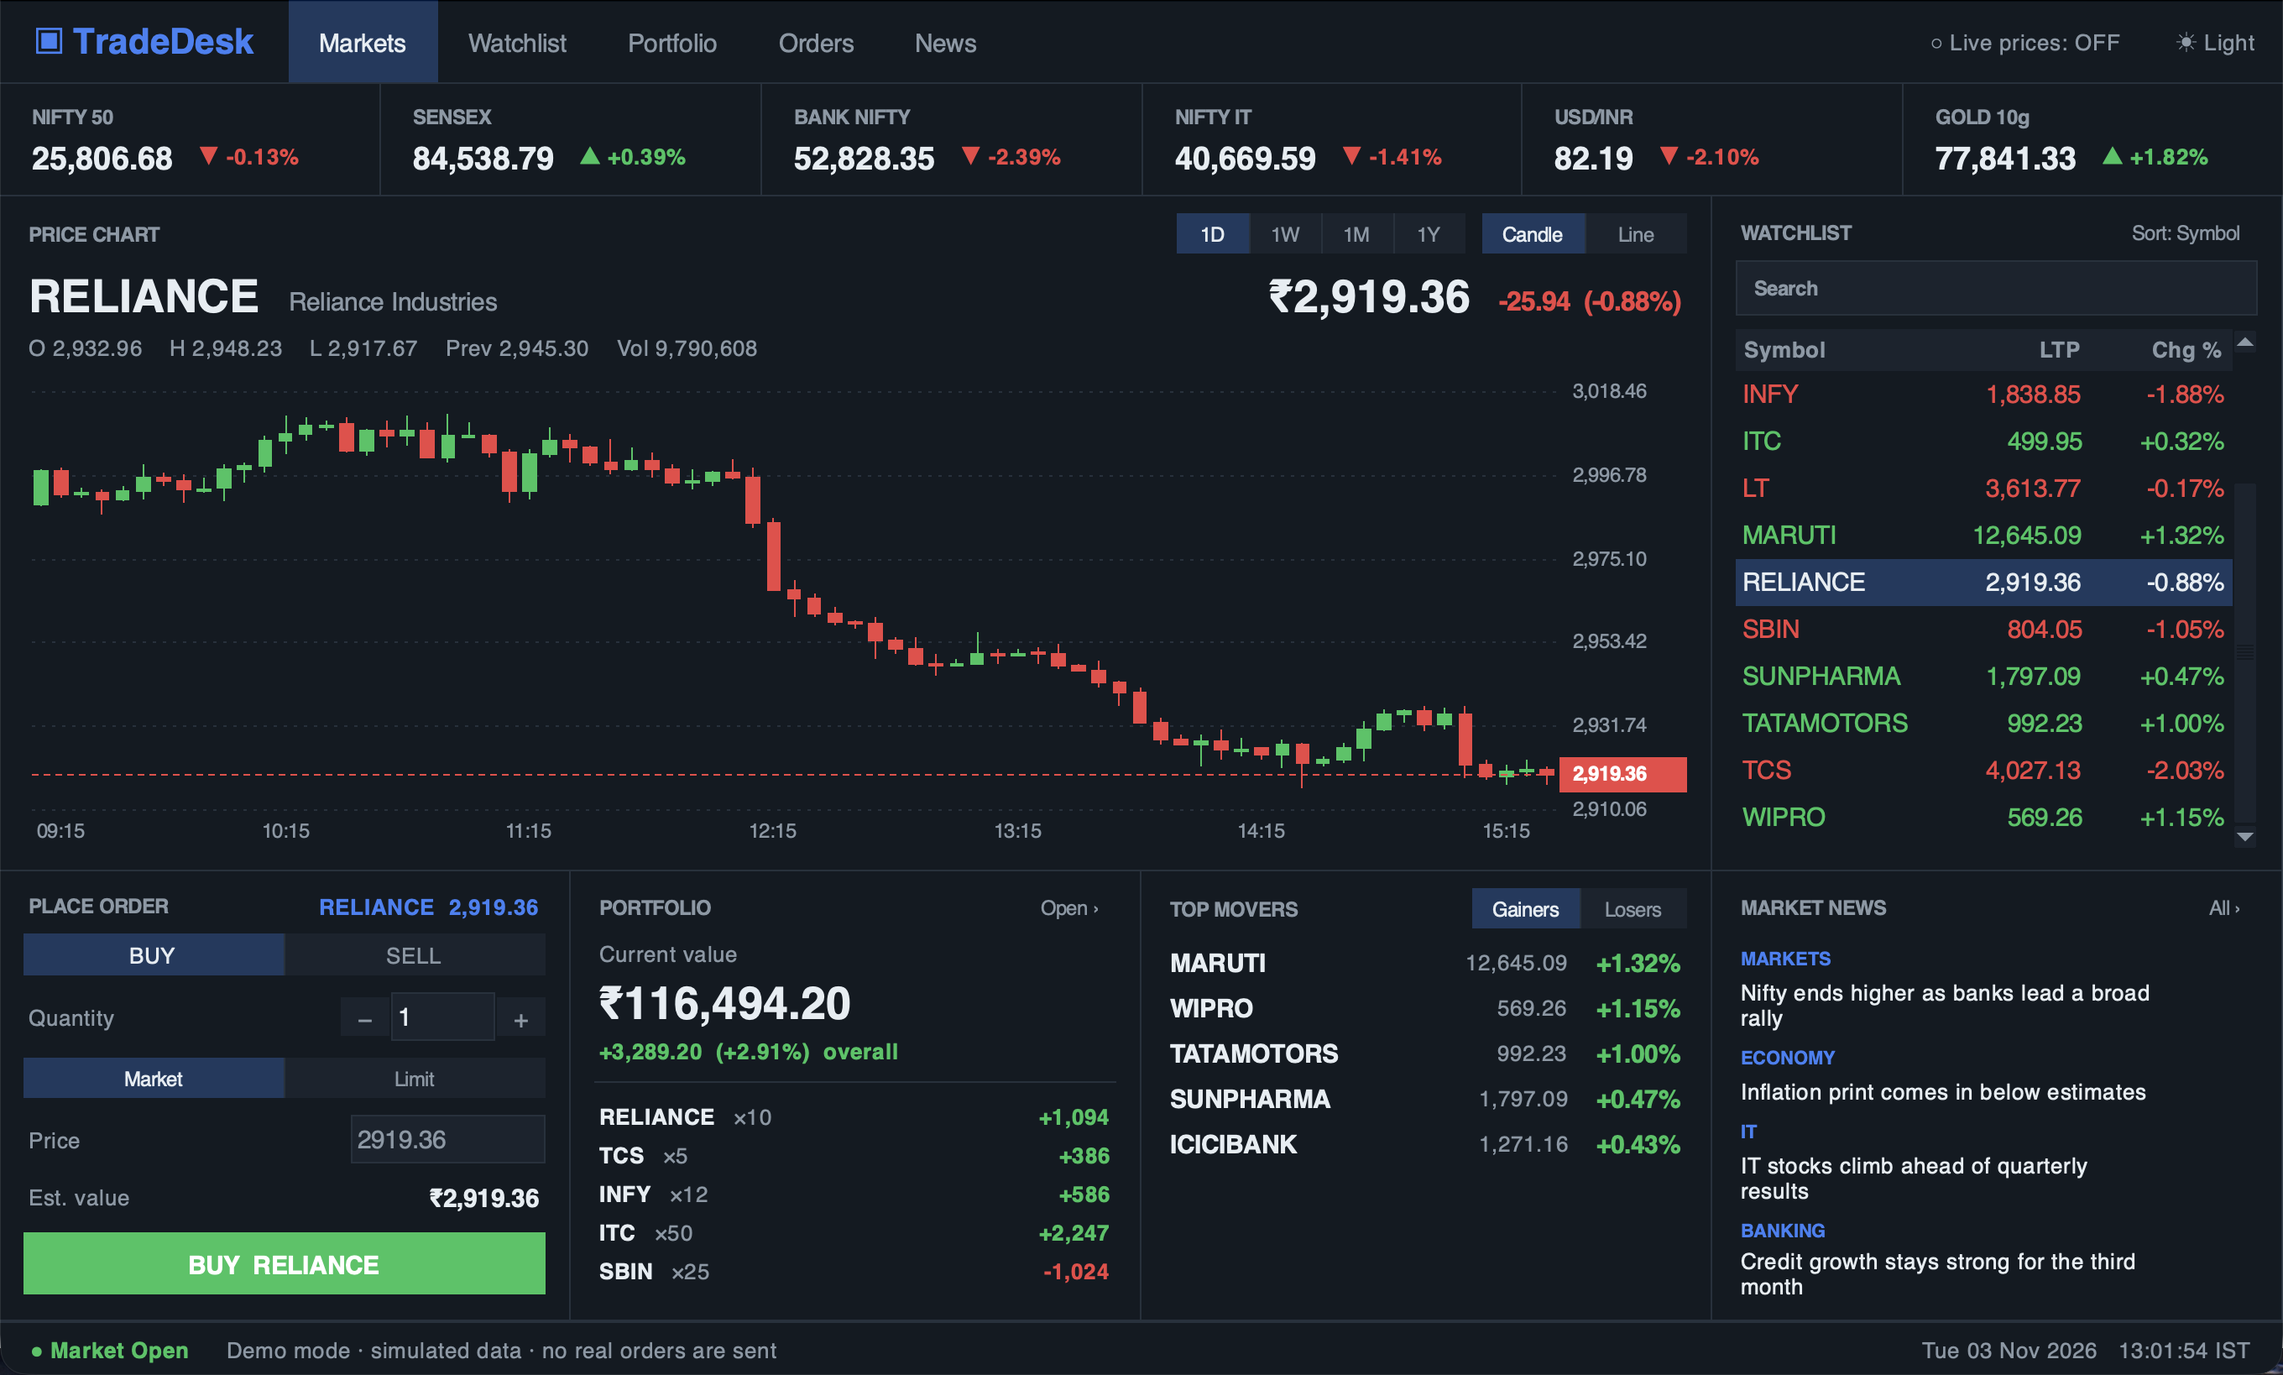
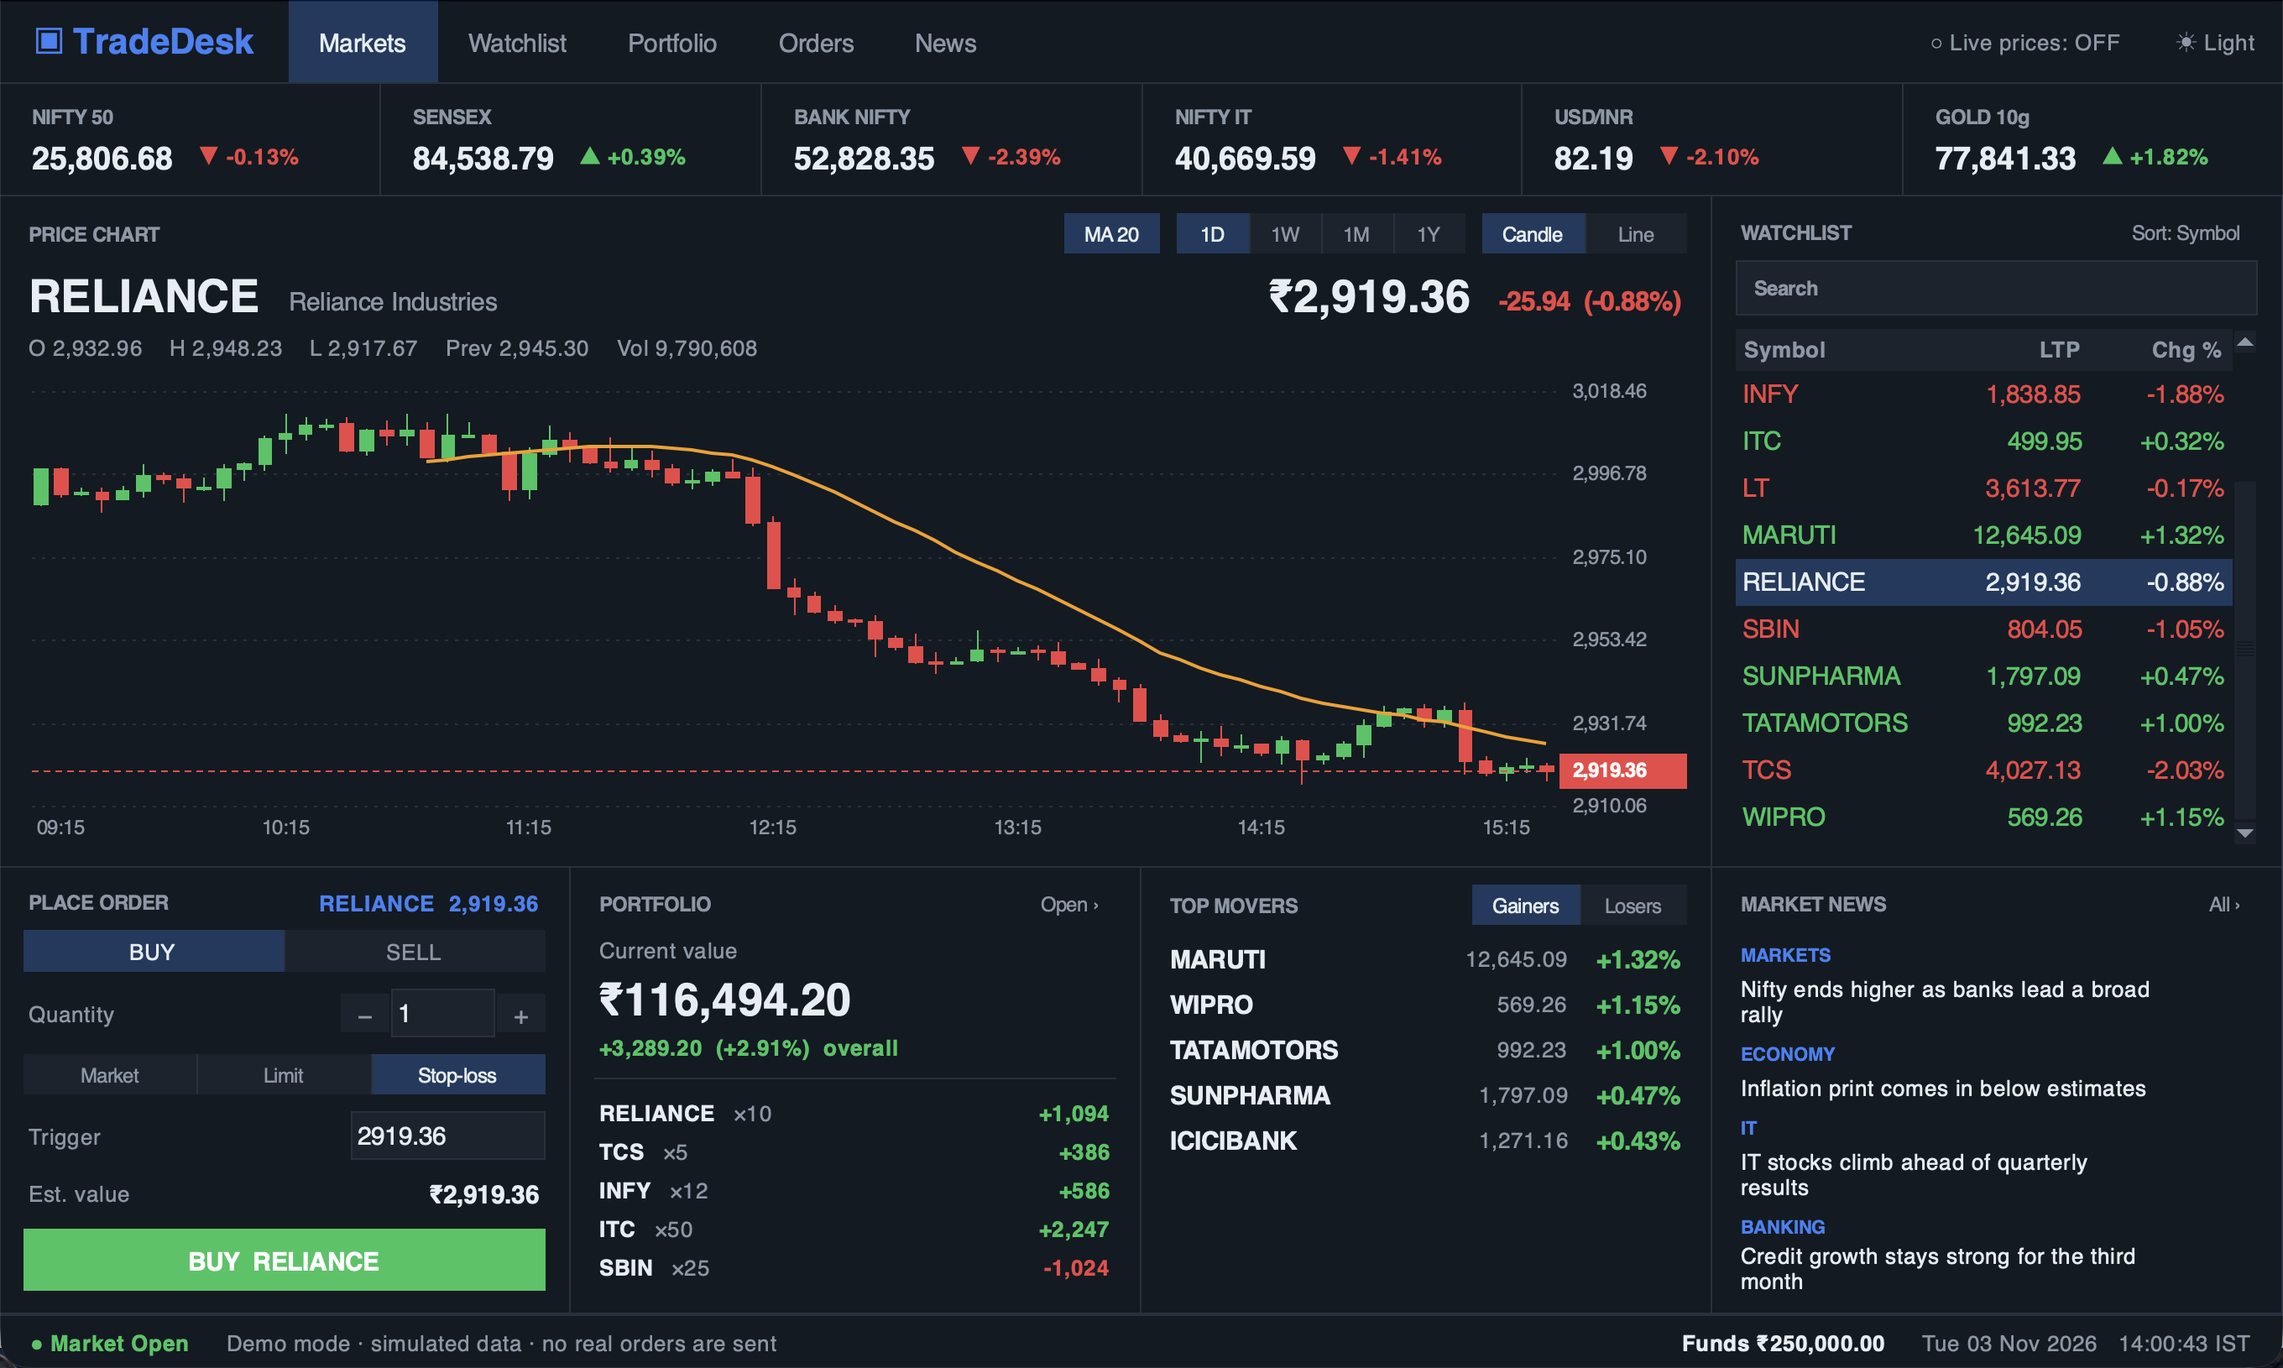
Add stop-loss orders, MA 20, market depth, price alerts and funds
Update the README screenshot and diagram to match.

diff --git a/tradedesk.py b/tradedesk.py
@@ -137,6 +137,9 @@ class MarketData:
             dict(time=(now - timedelta(minutes=18)).strftime("%H:%M:%S"), sym="WIPRO", side="BUY",
                  qty=20, kind="Limit", price=550.00, status="Open"),
         ]
+        self.cash = 250000.0
+        self.alerts = []
+        self.events = []
         self._candles = {}
 
     def candles(self, sym, tf):
@@ -163,6 +166,45 @@ class MarketData:
         for (sym, _), data in self._candles.items():
             last, p = data[-1], self.stocks[sym].price
             last[3], last[1], last[2] = p, max(last[1], p), min(last[2], p)
+        self._fill_open_orders()
+        self._check_alerts()
+
+    def _fill_open_orders(self):
+        """Open limit and stop-loss orders execute once the price reaches them."""
+        for o in filter(lambda o: o["status"] == "Open", self.orders):
+            price, buy = self.stocks[o["sym"]].price, o["side"] == "BUY"
+            if o["kind"] == "Limit":
+                hit = price <= o["price"] if buy else price >= o["price"]
+            else:
+                hit = price >= o["price"] if buy else price <= o["price"]
+            if not hit:
+                continue
+            short = o["qty"] > self.holdings.get(o["sym"], [0, 0])[0]
+            if (buy and o["qty"] * o["price"] > self.cash) or (not buy and short):
+                o["status"] = "Rejected"
+            else:
+                o["status"] = "Executed"
+                self._settle(o)
+            self.events.append(f"{o['kind']} {o['side']} {o['sym']}: {o['status'].lower()}")
+
+    def add_alert(self, sym, price):
+        self.alerts.append(dict(sym=sym, price=price, above=price > self.stocks[sym].price))
+        self.events.append(f"Alert set: {sym} at {price:,.2f}")
+
+    def _check_alerts(self):
+        for a in list(self.alerts):
+            price = self.stocks[a["sym"]].price
+            if (price >= a["price"]) if a["above"] else (price <= a["price"]):
+                self.alerts.remove(a)
+                self.events.append(f"Alert: {a['sym']} reached {a['price']:,.2f}")
+
+    def depth(self, sym):
+        """Five simulated bid and ask levels: (bid, bid qty, ask, ask qty)."""
+        price = self.stocks[sym].price
+        rng = random.Random(f"{sym}{price}")
+        step = max(0.05, round(price * 0.0002, 2))
+        return [(price - step * i, rng.randint(50, 5000), price + step * i, rng.randint(50, 5000))
+                for i in range(1, 6)]
 
     def filtered(self, query="", sort="Symbol"):
         q = query.strip().lower()
@@ -184,9 +226,14 @@ class MarketData:
 
     def place(self, order):
         self.orders.insert(0, order)
-        if order["status"] != "Executed":
-            return
+        if order["status"] == "Executed":
+            self._settle(order)
+
+    def _settle(self, order):
+        """Move an executed order into holdings and cash."""
         sym = order["sym"]
+        value = order["qty"] * order["price"]
+        self.cash += -value if order["side"] == "BUY" else value
         q, avg = self.holdings.get(sym, [0, 0.0])
         if order["side"] == "BUY":
             new_q = q + order["qty"]
@@ -242,7 +289,7 @@ class TradeDesk:
         self.data = MarketData()
         self.theme, self.tab, self.symbol = "dark", "Markets", "RELIANCE"
         self.tf, self.chart_type, self.sort_key = "1D", "Candle", "Symbol"
-        self.show_gainers, self.live = True, False
+        self.show_gainers, self.live, self.show_ma = True, False, False
         self.order_state = dict(side="BUY", kind="Market", qty="1")
         root.title("TradeDesk")
         root.geometry("1360x860")
@@ -345,6 +392,15 @@ class TradeDesk:
                  bg=c["panel"], fg=c["muted"], font=(FONT, 10)).pack(side="left")
         self.clock_lbl = tk.Label(bar, bg=c["panel"], fg=c["muted"], font=(FONT, 10), padx=16)
         self.clock_lbl.pack(side="right")
+        self.funds_lbl = tk.Label(bar, bg=c["panel"], fg=c["text"], font=(FONT, 10, "bold"))
+        self.funds_lbl.pack(side="right")
+        self.notice_lbl = tk.Label(bar, bg=c["panel"], fg=c["accent"], font=(FONT, 10, "bold"), padx=16)
+        self.notice_lbl.pack(side="left")
+        self.refresh_status()
+
+    def refresh_status(self):
+        self.funds_lbl.config(text=f"Funds {inr(self.data.cash)}")
+        self.notice_lbl.config(text=self.data.events[-1] if self.data.events else "")
 
     # ---------- timers (event-driven)
     def _clock(self):
@@ -364,6 +420,7 @@ class TradeDesk:
 
     def refresh(self):
         self.refresh_ticker()
+        self.refresh_status()
         for fn in self.refreshers:
             fn()
 
@@ -513,6 +570,15 @@ class TradeDesk:
         head, body = self.tile(page, "Price chart", r, col, colspan=colspan)
         self.segmented(head, ["Candle", "Line"], self.chart_type, self.set_chart_type).pack(side="right")
         self.segmented(head, list(TIMEFRAMES), self.tf, self.set_tf).pack(side="right", padx=(0, 10))
+        ma_btn = FlatButton(head, self, "MA 20", active=self.show_ma, size=9, padx=10, pady=3, base="panel2")
+
+        def toggle_ma():
+            self.show_ma = not self.show_ma
+            ma_btn.set_active(self.show_ma)
+            self.draw_chart()
+
+        ma_btn.command = toggle_ma
+        ma_btn.pack(side="right", padx=(0, 10))
 
         info = tk.Frame(body, bg=c["panel"])
         info.pack(fill="x")
@@ -614,6 +680,13 @@ class TradeDesk:
                 pts += [left + step * i + step / 2, y(candle[3])]
             cv.create_line(*pts, fill=c["accent"], width=2, smooth=False)
 
+        if self.show_ma and n >= 20:
+            closes = [x[3] for x in data]
+            pts = []
+            for i in range(19, n):
+                pts += [left + step * i + step / 2, y(sum(closes[i - 19:i + 1]) / 20)]
+            cv.create_line(*pts, fill="#f59e0b", width=2)
+
         last = data[-1][3]
         col = c["up"] if last >= data[0][0] else c["down"]
         cv.create_line(left, y(last), left + pw, y(last), fill=col, dash=(4, 3))
@@ -659,7 +732,7 @@ class TradeDesk:
         body.columnconfigure(1, weight=1)
 
         qty_var = tk.StringVar(value=st["qty"])
-        price_var = tk.StringVar()
+        price_var = tk.StringVar(value=f"{self.data.stocks[self.symbol].price:.2f}")
         place_btn = FlatButton(body, self, "", None, color=c["up"], size=11, pady=8)
 
         def pick_side(side):
@@ -668,7 +741,8 @@ class TradeDesk:
 
         def pick_kind(kind):
             st["kind"] = kind
-            if kind == "Limit":
+            price_lbl.config(text="Trigger" if kind == "Stop-loss" else "Price")
+            if kind != "Market":
                 price_var.set(f"{self.data.stocks[self.symbol].price:.2f}")
             update()
 
@@ -691,10 +765,11 @@ class TradeDesk:
         FlatButton(qrow, self, "+", lambda: bump(1), size=11, padx=8, pady=1,
                    base="panel2").pack(side="left")
 
-        self.segmented(body, ["Market", "Limit"], st["kind"], pick_kind).grid(
+        self.segmented(body, ["Market", "Limit", "Stop-loss"], st["kind"], pick_kind).grid(
             row=2, column=0, columnspan=2, sticky="ew", pady=(10, 0))
 
-        self.label(body, "Price", fg="muted", size=10).grid(row=3, column=0, sticky="w", pady=(10, 0))
+        price_lbl = self.label(body, "Trigger" if st["kind"] == "Stop-loss" else "Price", fg="muted", size=10)
+        price_lbl.grid(row=3, column=0, sticky="w", pady=(10, 0))
         price_entry = self.entry(body, price_var, width=12)
         price_entry.grid(row=3, column=1, sticky="e", pady=(10, 0), ipady=2)
 
@@ -727,7 +802,12 @@ class TradeDesk:
         price_var.trace_add("write", update_total)
         update()
         self.refreshers.append(update)
-        self.sym_listeners.append(update)
+
+        def on_symbol():
+            price_var.set(f"{self.data.stocks[self.symbol].price:.2f}")
+            update()
+
+        self.sym_listeners.append(on_symbol)
 
     def place_order(self, qty_txt, price_txt):
         st, s = self.order_state, self.data.stocks[self.symbol]
@@ -742,6 +822,9 @@ class TradeDesk:
         held = self.data.holdings.get(s.sym, [0, 0])[0]
         if st["side"] == "SELL" and qty > held:
             messagebox.showerror("Not enough shares", f"You hold {held} shares of {s.sym}.")
+            return
+        if st["side"] == "BUY" and qty * price > self.data.cash:
+            messagebox.showerror("Not enough funds", f"Available funds: {inr(self.data.cash)}.")
             return
         ok = messagebox.askyesno(
             "Confirm order",
@@ -861,29 +944,51 @@ class TradeDesk:
     def quote_tile(self, page, r, col):
         c = self.c
         _, body = self.tile(page, "Quote", r, col)
+        alert_var = tk.StringVar()
+
+        def set_alert():
+            try:
+                price = float(alert_var.get())
+                if price <= 0:
+                    raise ValueError
+            except ValueError:
+                messagebox.showerror("Price alert", "Enter a positive price.")
+                return
+            self.data.add_alert(self.symbol, price)
+            alert_var.set("")
+            self.refresh_status()
+
+        alert_row = tk.Frame(body, bg=c["panel"])
+        alert_row.pack(side="bottom", fill="x", pady=(8, 0))
+        self.label(alert_row, "Price alert", fg="muted", size=10).pack(side="left")
+        FlatButton(alert_row, self, "Set", set_alert, size=10, padx=10, pady=2,
+                   base="panel2").pack(side="right")
+        self.entry(alert_row, alert_var, width=9).pack(side="right", padx=(0, 4), ipady=2)
+        top = tk.Frame(body, bg=c["panel"])
+        top.pack(fill="both", expand=True)
 
         def render():
-            for w in body.winfo_children():
+            for w in top.winfo_children():
                 w.destroy()
             s = self.data.stocks[self.symbol]
-            self.label(body, s.sym, size=20, bold=True).pack(anchor="w")
-            self.label(body, s.name, fg="muted", size=10).pack(anchor="w")
-            self.label(body, inr(s.price), size=24, bold=True).pack(anchor="w", pady=(12, 0))
-            self.label(body, f"{s.change:+,.2f}  ({pct_text(s.pct)})", fg=self.pnl_color(s.change),
+            self.label(top, s.sym, size=20, bold=True).pack(anchor="w")
+            self.label(top, s.name, fg="muted", size=10).pack(anchor="w")
+            self.label(top, inr(s.price), size=24, bold=True).pack(anchor="w", pady=(6, 0))
+            self.label(top, f"{s.change:+,.2f}  ({pct_text(s.pct)})", fg=self.pnl_color(s.change),
                        size=11, bold=True).pack(anchor="w")
-            tk.Frame(body, bg=c["border"], height=1).pack(fill="x", pady=12)
+            tk.Frame(top, bg=c["border"], height=1).pack(fill="x", pady=8)
             for k, v in [("Open", s.open), ("High", s.high), ("Low", s.low), ("Prev close", s.prev)]:
-                row = tk.Frame(body, bg=c["panel"])
+                row = tk.Frame(top, bg=c["panel"])
                 row.pack(fill="x", pady=2)
                 self.label(row, k, fg="muted", size=10).pack(side="left")
                 self.label(row, f"{v:,.2f}", size=10, bold=True).pack(side="right")
-            row = tk.Frame(body, bg=c["panel"])
+            row = tk.Frame(top, bg=c["panel"])
             row.pack(fill="x", pady=2)
             self.label(row, "Volume", fg="muted", size=10).pack(side="left")
             self.label(row, f"{s.volume:,}", size=10, bold=True).pack(side="right")
 
-            self.label(body, "Day range", fg="muted", size=10).pack(anchor="w", pady=(14, 4))
-            bar = tk.Canvas(body, height=10, bg=c["panel2"], highlightthickness=0)
+            self.label(top, "Day range", fg="muted", size=10).pack(anchor="w", pady=(8, 4))
+            bar = tk.Canvas(top, height=10, bg=c["panel2"], highlightthickness=0)
             bar.pack(fill="x")
 
             def draw(e, s=s):
@@ -892,8 +997,18 @@ class TradeDesk:
                 bar.create_rectangle(0, 0, e.width * frac, 10, fill=c["accent"], outline="")
 
             bar.bind("<Configure>", draw)
-            btns = tk.Frame(body, bg=c["panel"])
-            btns.pack(fill="x", pady=(16, 0))
+            self.label(top, "Market depth", fg="muted", size=10).pack(anchor="w", pady=(8, 2))
+            depth = tk.Frame(top, bg=c["panel"])
+            depth.pack(fill="x")
+            depth.columnconfigure((0, 1, 2, 3), weight=1, uniform="d")
+            for i, text in enumerate(("Bid", "Qty", "Ask", "Qty")):
+                self.label(depth, text, fg="muted", size=9, bold=True).grid(row=0, column=i, sticky="e")
+            for r_i, (bid, bid_q, ask, ask_q) in enumerate(self.data.depth(s.sym), 1):
+                for i, (val, fg) in enumerate(((f"{bid:,.2f}", "up"), (f"{bid_q:,}", "text"),
+                                               (f"{ask:,.2f}", "down"), (f"{ask_q:,}", "text"))):
+                    self.label(depth, val, fg=fg, size=9).grid(row=r_i, column=i, sticky="e")
+            btns = tk.Frame(top, bg=c["panel"])
+            btns.pack(fill="x", pady=(8, 0))
             btns.columnconfigure((0, 1), weight=1, uniform="b")
             FlatButton(btns, self, "BUY", lambda: self.trade_from_quote("BUY"), color=c["up"],
                        pady=8).grid(row=0, column=0, sticky="ew", padx=(0, 4))
@@ -976,7 +1091,7 @@ class TradeDesk:
         frame, tree = self.table(body, cols)
         frame.pack(fill="both", expand=True)
         for i, o in enumerate(orders):
-            tag = "muted" if o["status"] == "Cancelled" else ("up" if o["side"] == "BUY" else "down")
+            tag = "muted" if o["status"] in ("Cancelled", "Rejected") else ("up" if o["side"] == "BUY" else "down")
             tree.insert("", "end", iid=str(i), tags=(tag,), values=(
                 o["time"], o["sym"], o["side"], o["qty"], o["kind"], f"{o['price']:,.2f}",
                 f"{o['qty'] * o['price']:,.2f}", o["status"]))

diff --git a/README.md b/README.md
@@ -16,10 +16,13 @@ It uses only the Python standard library (`tkinter`, `random`, `datetime`, `sys`
 
 - Top bar with five tabs: Markets, Watchlist, Portfolio, Orders and News. It also has a dark/light toggle and a live-prices toggle.
 - Index ticker strip: NIFTY 50, SENSEX, BANK NIFTY and others.
-- Candle/line price chart drawn on a Tkinter Canvas, with 1D, 1W, 1M and 1Y timeframes.
+- Candle/line price chart drawn on a Tkinter Canvas, with 1D, 1W, 1M and 1Y timeframes and an MA 20 moving average.
 - Watchlist you can search and sort.
-- Buy/sell order form with Market and Limit orders and a confirmation dialog.
+- Buy/sell order form with Market, Limit and Stop-loss orders, a funds check and a confirmation dialog.
+- Market depth (five bid and ask levels) and price alerts.
 - Portfolio with P&L and allocation, an order book where open orders can be cancelled, and news cards.
+
+Open limit and stop-loss orders execute, and price alerts fire, while live prices are on.
 
 ## Layout
 
@@ -41,9 +44,9 @@ The window has four stacked bands: top bar, ticker strip, content and status bar
 
 ## How it works
 
-Each user or timer event goes to a handler in the `TradeDesk` class, which uses `MarketData` and then updates the screen.
+User actions and timers go to the `TradeDesk` class. It reads and updates data in the `MarketData` class and shows the five tabs.
 
-![Flow from each event, through its TradeDesk handler and MarketData, to what updates on screen](docs/architecture.png)
+![User actions and timers go to the TradeDesk class, which exchanges data with the MarketData class and shows five tabs](docs/architecture.png)
 
 ## Paradigms used
 
